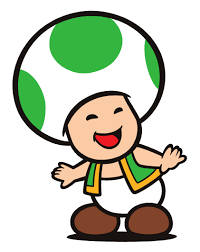
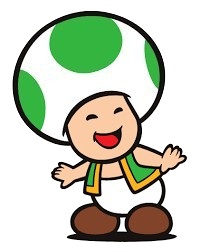
Version 1.0.2: - Toad-Images haben nun durchsichtigen Hintergrund, haben also im Plugin-Fenster keinen weißen Hintergrund mehr - ReadMe- und CMake-Versionen korrigiert

diff --git a/README.md b/README.md
@@ -210,7 +210,7 @@ Toady/
 - **Plugin Name:** Toadally Screwed
 - **Manufacturer Code:** Hsbi
 - **Plugin Code:** Toad
-- **Version:** 1.0.0
+- **Version:** 1.0.2
 - **Type:** Synthesizer
 - **MIDI:** Requires MIDI input, no MIDI output
 - **Formats:** VST3, Standalone
